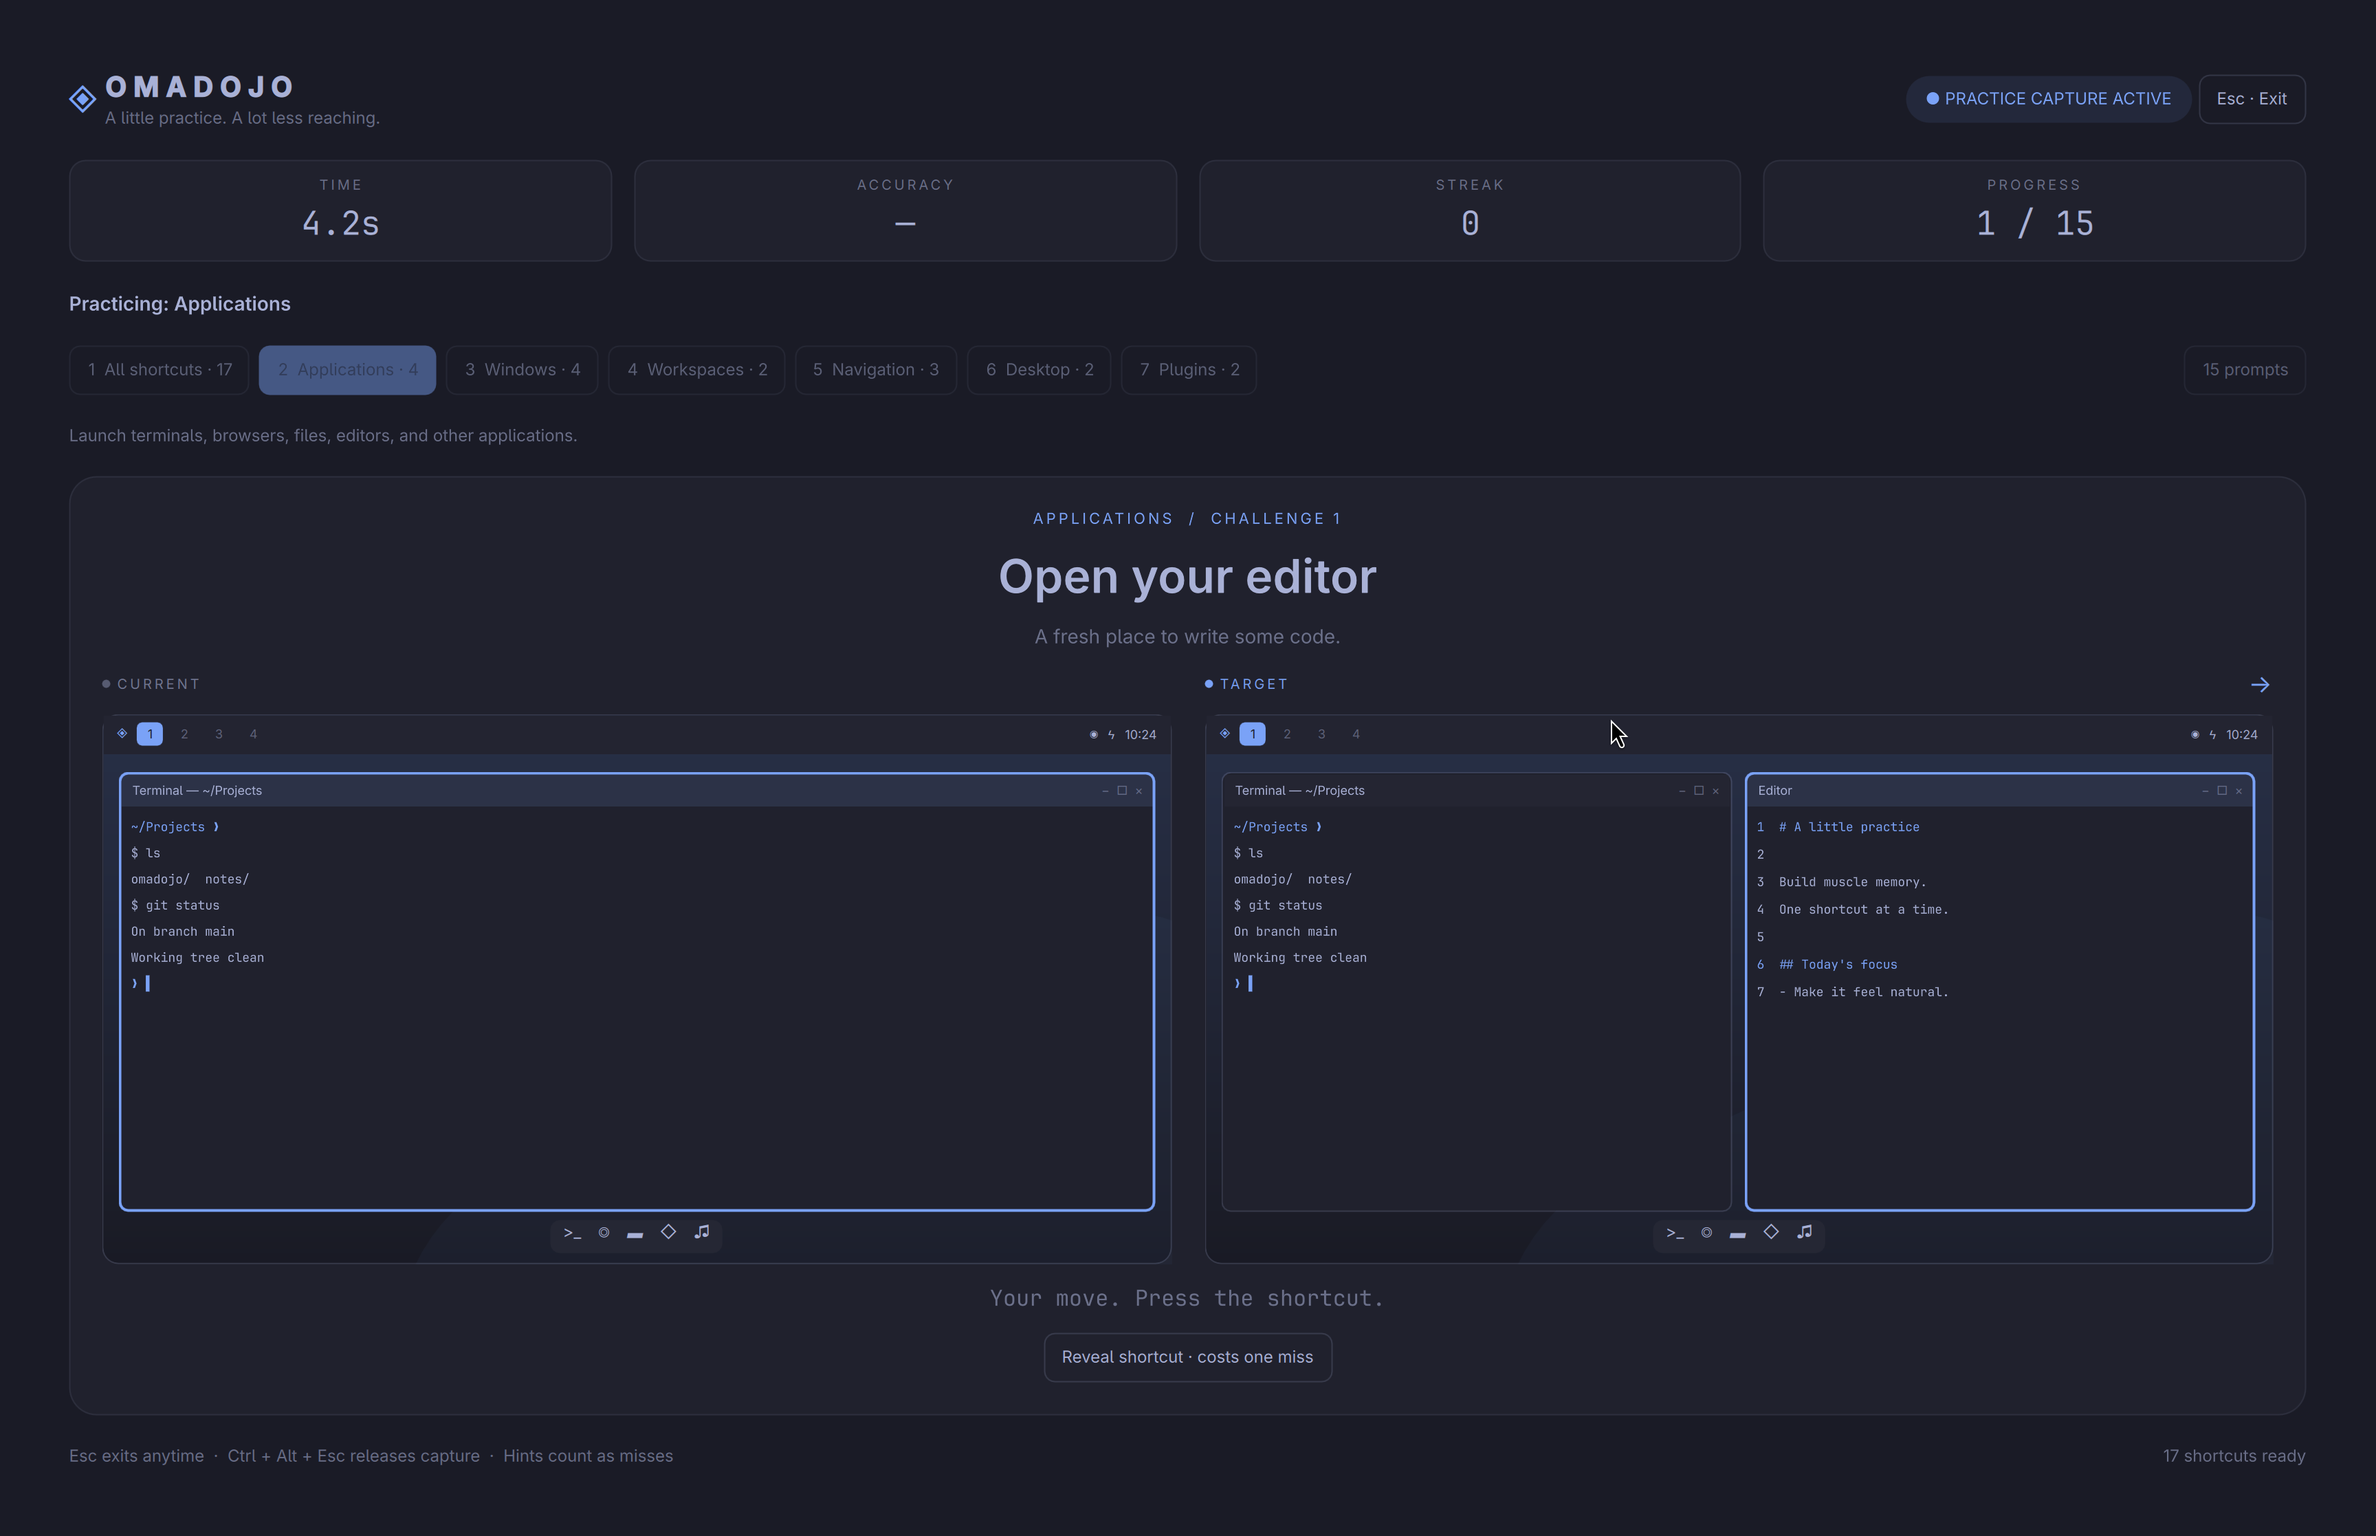
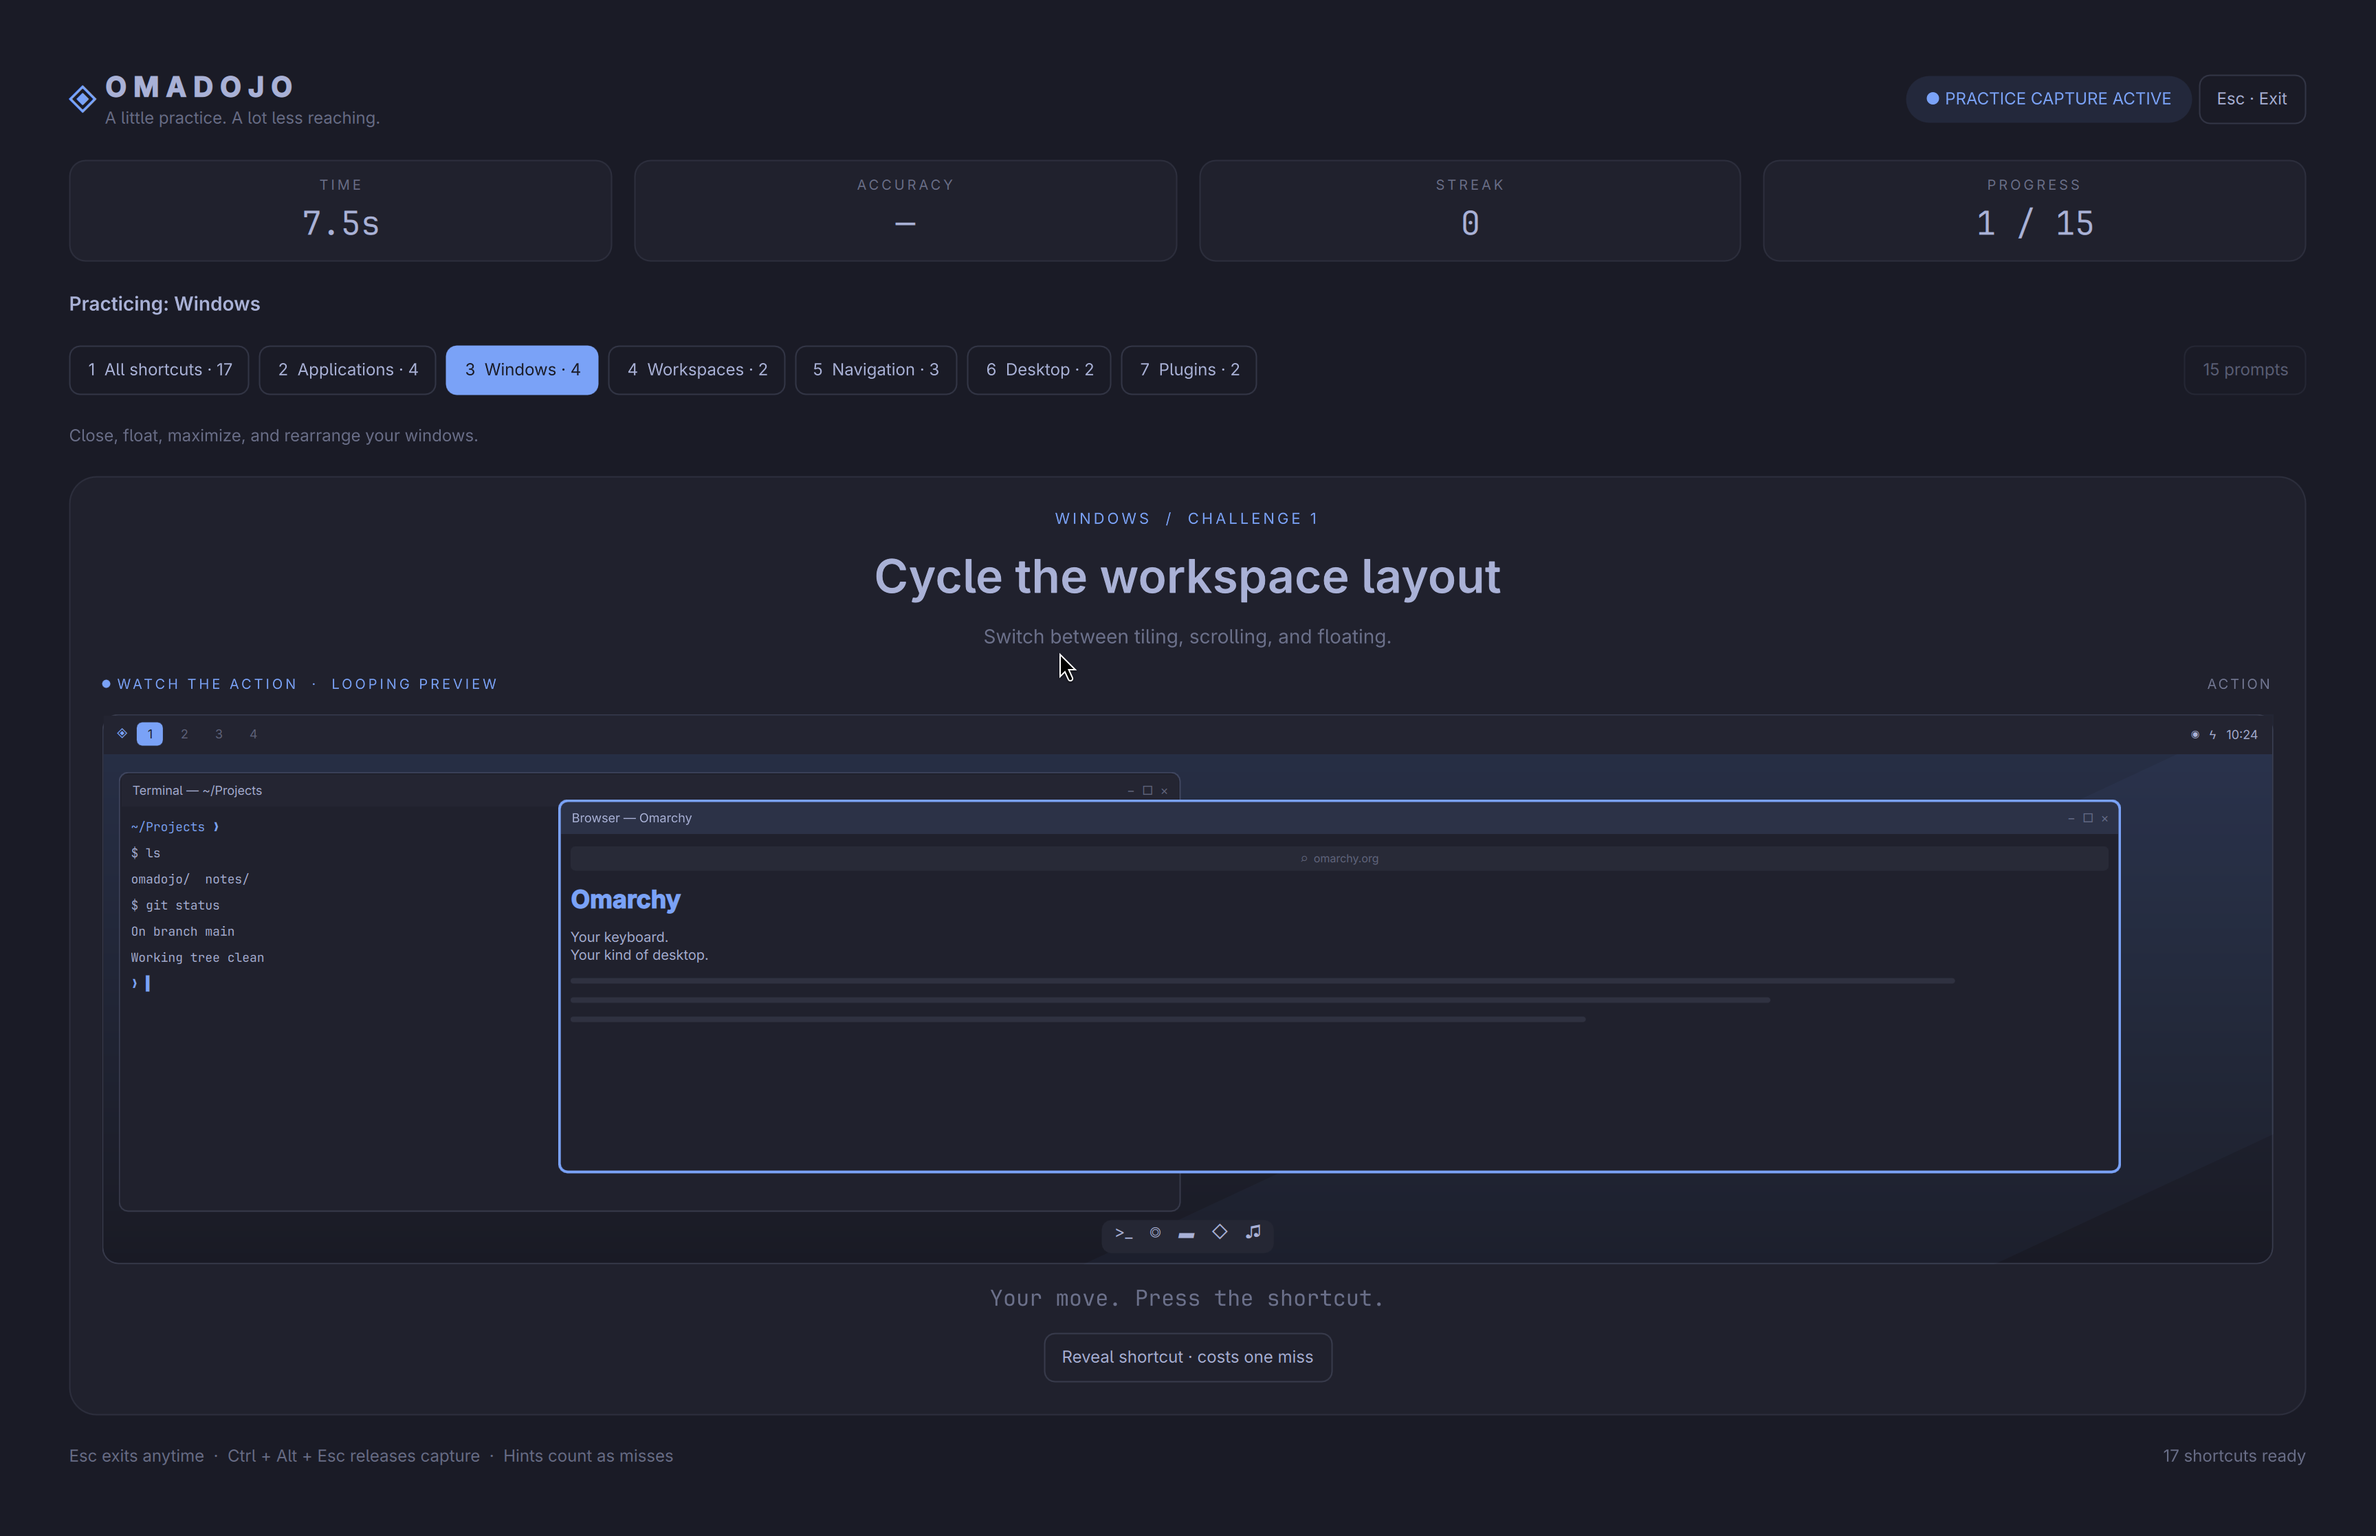
Demonstrate each shortcut on one looping animated desktop

diff --git a/SimDesktop.qml b/SimDesktop.qml
@@ -5,6 +5,7 @@ Rectangle {
   id: root
   property string scene: "welcome"
   property bool after: false
+  property bool animateChanges: true
   property string applicationId: "terminal"
   property string appLabel: "Terminal"
   property color accent
@@ -74,7 +75,9 @@ Rectangle {
       readonly property bool oneWindow: root.full || root.closed || (root.scene === "launch" && !root.after)
       readonly property int position: swap ? 1 - index : index
       readonly property real usableHeight: root.height - 80
-      visible: !(subject && root.closed) && !(index === 0 && root.full) && !(subject && root.scene === "launch" && !root.after)
+      opacity: (subject && root.closed) || (index === 0 && root.full) || (subject && root.scene === "launch" && !root.after) ? 0 : 1
+      visible: opacity > 0
+      scale: subject && root.scene === "launch" && !root.after ? 0.95 : 1
       x: root.full && subject ? 8 : root.overlapping && subject ? root.width * 0.21 : oneWindow ? 12 : 12 + position * (root.width - 16) / 2
       y: root.overlapping && subject ? 62 : 42
       width: root.full && subject ? root.width - 16 : root.overlapping && subject ? root.width * 0.72 : oneWindow ? root.width - 24 : (root.width - 34) / 2
@@ -84,14 +87,21 @@ Rectangle {
       kind: root.otherWorkspace ? (root.scene === "move" && subject ? "terminal" : index === 0 ? "files" : "editor") : subject && root.scene === "launch" ? root.appKind : index === 0 ? "terminal" : "browser"
       title: root.otherWorkspace ? (root.scene === "move" && subject ? "Terminal · moved to workspace 2" : index === 0 ? "Files — Projects" : "Editor — notes.md") : subject && root.scene === "launch" ? root.appLabel : index === 0 ? "Terminal — ~/Projects" : "Browser — Omarchy"
       accent: root.accent; foreground: root.foreground; background: root.background
-      Behavior on x { NumberAnimation { duration: Style.duration(180); easing.type: Easing.OutCubic } }
-      Behavior on y { NumberAnimation { duration: Style.duration(180); easing.type: Easing.OutCubic } }
-      Behavior on width { NumberAnimation { duration: Style.duration(180); easing.type: Easing.OutCubic } }
+      Behavior on x { enabled: root.animateChanges; NumberAnimation { duration: Style.duration(180); easing.type: Easing.OutCubic } }
+      Behavior on y { enabled: root.animateChanges; NumberAnimation { duration: Style.duration(180); easing.type: Easing.OutCubic } }
+      Behavior on width { enabled: root.animateChanges; NumberAnimation { duration: Style.duration(180); easing.type: Easing.OutCubic } }
+      Behavior on height { enabled: root.animateChanges; NumberAnimation { duration: Style.duration(180); easing.type: Easing.OutCubic } }
+      Behavior on opacity { enabled: root.animateChanges; NumberAnimation { duration: Style.duration(160); easing.type: Easing.OutCubic } }
+      Behavior on scale { enabled: root.animateChanges; NumberAnimation { duration: Style.duration(180); easing.type: Easing.OutCubic } }
     }
   }
 
   Rectangle {
-    visible: root.menuOpen
+    opacity: root.menuOpen ? 1 : 0
+    visible: opacity > 0
+    scale: root.menuOpen ? 1 : 0.95
+    Behavior on opacity { enabled: root.animateChanges; NumberAnimation { duration: Style.duration(160); easing.type: Easing.OutCubic } }
+    Behavior on scale { enabled: root.animateChanges; NumberAnimation { duration: Style.duration(180); easing.type: Easing.OutCubic } }
     anchors.centerIn: parent
     width: parent.width * 0.7; height: Math.min(parent.height - 65, 235)
     z: 5; radius: 10; color: Qt.tint(root.background, Qt.rgba(root.foreground.r, root.foreground.g, root.foreground.b, 0.05)); border.color: root.accent

diff --git a/DesktopScene.qml b/DesktopScene.qml
@@ -8,40 +8,57 @@ Item {
   property string glyph: "◈"
   property string appLabel: "Omadojo"
   property string applicationId: "terminal"
+  property string lessonToken: ""
   property bool solved: false
   property color accent
   property color foreground
   property color background
-  readonly property bool compact: width < 640
-  RowLayout {
+  property bool demoAfter: false
+  readonly property bool demonstrating: scene !== "welcome" && !solved
+
+  function resetDemo() {
+    demoAfter = false
+    if (demonstrating && !Style.reduceMotion) demonstration.restart()
+    else demonstration.stop()
+  }
+  onLessonTokenChanged: resetDemo()
+  onSceneChanged: resetDemo()
+  onSolvedChanged: resetDemo()
+
+  SequentialAnimation {
+    id: demonstration
+    running: root.demonstrating && !Style.reduceMotion
+    loops: Animation.Infinite
+    ScriptAction { script: root.demoAfter = false }
+    PauseAnimation { duration: 1100 }
+    ScriptAction { script: root.demoAfter = true }
+    PauseAnimation { duration: 1900 }
+  }
+
+  ColumnLayout {
     anchors.fill: parent
-    spacing: root.compact ? 10 : 24
-    Repeater {
-      model: 2
-      ColumnLayout {
-        id: stage
-        required property int index
-        Layout.fillWidth: true; Layout.fillHeight: true; Layout.preferredWidth: 1; Layout.minimumWidth: 0
-        spacing: 10
-        RowLayout {
-          Layout.fillWidth: true; Layout.preferredHeight: 24
-          Rectangle { width: 6; height: 6; radius: 3; color: stage.index === 1 ? root.accent : root.foreground; opacity: stage.index === 1 ? 1 : 0.4 }
-          Text {
-            text: stage.index === 0 ? (root.solved ? "COMPLETED" : "CURRENT") : "TARGET"
-            color: stage.index === 1 ? root.accent : root.foreground
-            opacity: stage.index === 1 ? 1 : 0.6
-            font.pixelSize: 10; font.letterSpacing: 2; textFormat: Text.PlainText
-          }
-          Item { Layout.fillWidth: true }
-          Text { visible: stage.index === 1; text: root.solved ? "✓" : "→"; color: root.accent; font.pixelSize: 18; textFormat: Text.PlainText }
-        }
-        SimDesktop {
-          Layout.fillWidth: true; Layout.fillHeight: true
-          scene: root.scene; after: stage.index === 1 || root.solved
-          applicationId: root.applicationId; appLabel: root.appLabel
-          accent: root.accent; foreground: root.foreground; background: root.background
-        }
+    spacing: 10
+    RowLayout {
+      Layout.fillWidth: true; Layout.preferredHeight: 24
+      Rectangle { width: 6; height: 6; radius: 3; color: root.accent }
+      Text {
+        text: root.solved ? "✓  COMPLETED" : root.demonstrating ? (Style.reduceMotion ? "GOAL" : "WATCH THE ACTION  ·  LOOPING PREVIEW") : "YOUR PRACTICE DESKTOP"
+        color: root.accent; font.pixelSize: 10; font.letterSpacing: 2; textFormat: Text.PlainText
       }
+      Item { Layout.fillWidth: true }
+      Text {
+        visible: root.demonstrating && !Style.reduceMotion
+        text: root.demoAfter ? "ACTION" : "START"
+        color: root.foreground; opacity: 0.6; font.pixelSize: 10; font.letterSpacing: 1.5; textFormat: Text.PlainText
+      }
+    }
+    SimDesktop {
+      Layout.fillWidth: true; Layout.fillHeight: true
+      scene: root.scene
+      after: root.solved || root.demoAfter || (root.demonstrating && Style.reduceMotion)
+      animateChanges: root.solved || root.demoAfter
+      applicationId: root.applicationId; appLabel: root.appLabel
+      accent: root.accent; foreground: root.foreground; background: root.background
     }
   }
 }

diff --git a/Dojo.qml b/Dojo.qml
@@ -320,6 +320,7 @@ Item {
               Layout.fillWidth: true; Layout.fillHeight: true; Layout.minimumHeight: 130
               scene: root.practicing && root.prompt ? root.prompt.scene : "welcome"
               glyph: root.practicing && root.prompt ? root.prompt.glyph : root.phase === "results" ? "✓" : "◈"
+              lessonToken: root.practicing && root.prompt ? root.prompt.id + "-" + root.index : "welcome"
               applicationId: root.practicing && root.prompt ? root.prompt.id : "terminal"
               appLabel: root.practicing && root.prompt ? root.prompt.label : "Omadojo"
               solved: root.solved || root.phase === "results"

diff --git a/SimWindow.qml b/SimWindow.qml
@@ -1,4 +1,5 @@
 import QtQuick
+import qs.Commons
 
 Rectangle {
   id: root
@@ -13,6 +14,7 @@ Rectangle {
   color: Qt.tint(background, Qt.rgba(foreground.r, foreground.g, foreground.b, 0.04))
   border.width: active ? 2 : 1
   border.color: active ? accent : Qt.rgba(foreground.r, foreground.g, foreground.b, 0.2)
+  Behavior on border.color { ColorAnimation { duration: Style.duration(160) } }
   Rectangle {
     x: 2; y: 2; width: parent.width - 4; height: 23
     color: root.active ? Qt.rgba(root.accent.r, root.accent.g, root.accent.b, 0.13) : Qt.rgba(root.foreground.r, root.foreground.g, root.foreground.b, 0.03)

diff --git a/README.md b/README.md
@@ -33,12 +33,16 @@ Then run `hyprctl reload` and `hyprctl configerrors`. Installing Omadojo itself 
 
 1. Press **1–7** or click a category: **All shortcuts**, **Applications**, **Windows**, **Workspaces**, **Navigation**, **Desktop**, or **Plugins**.
 2. Pick a 15- or 30-prompt round and press **Enter**.
-3. Compare the detailed **Current** and **Target** desktops, then perform the action shown using its Omarchy keyboard shortcut. The action happens in the simulated desktop.
+3. Watch one simulated desktop demonstrate the action on a loop, then perform the action shown using its Omarchy keyboard shortcut. The action happens in the simulated desktop.
 4. See completion time, accuracy, average response time, shortcuts per minute, best streak, and points at the end.
 
 **Escape** exits at any time. **Ctrl + Alt + Escape** is an independent compositor-level escape hatch while practice is active. The mouse Exit button also works.
 
 Wrong chords count as misses and leave the current prompt in place. Revealing a shortcut costs one miss and breaks the streak. Modifier-only presses and held-key repeats do not count. Scores are per round and stay in memory; no input or score history is recorded to disk.
+
+The preview pauses in its starting state, animates the action, holds the result,
+and repeats. A correct answer holds the completed state before the next prompt.
+With reduced motion enabled, it shows the goal without looping.
 
 ### Your actual shortcuts
 
@@ -107,7 +111,7 @@ After QML changes, restart the shell if a rescan keeps an older component instan
 ### Structure
 
 - `Dojo.qml`: overlay, input grading, round lifecycle, and live shortcut discovery.
-- `DesktopScene.qml`, `SimDesktop.qml`, `SimWindow.qml`: side-by-side current/target desktops with titlebars, workspace indicators, a dock, and terminal, browser, editor, files, calculator, and music content; no real window actions.
+- `DesktopScene.qml`, `SimDesktop.qml`, `SimWindow.qml`: a single looping desktop demonstration with titlebars, workspace indicators, a dock, and terminal, browser, editor, files, calculator, and music content; no real window actions.
 - `Engine.js`: pure scoring, chord matching, and shuffled rounds.
 - `Lessons.js`: curated action descriptions and visual tasks.
 - `capture.py`: temporary submap owner and independent input recovery watchdog.
